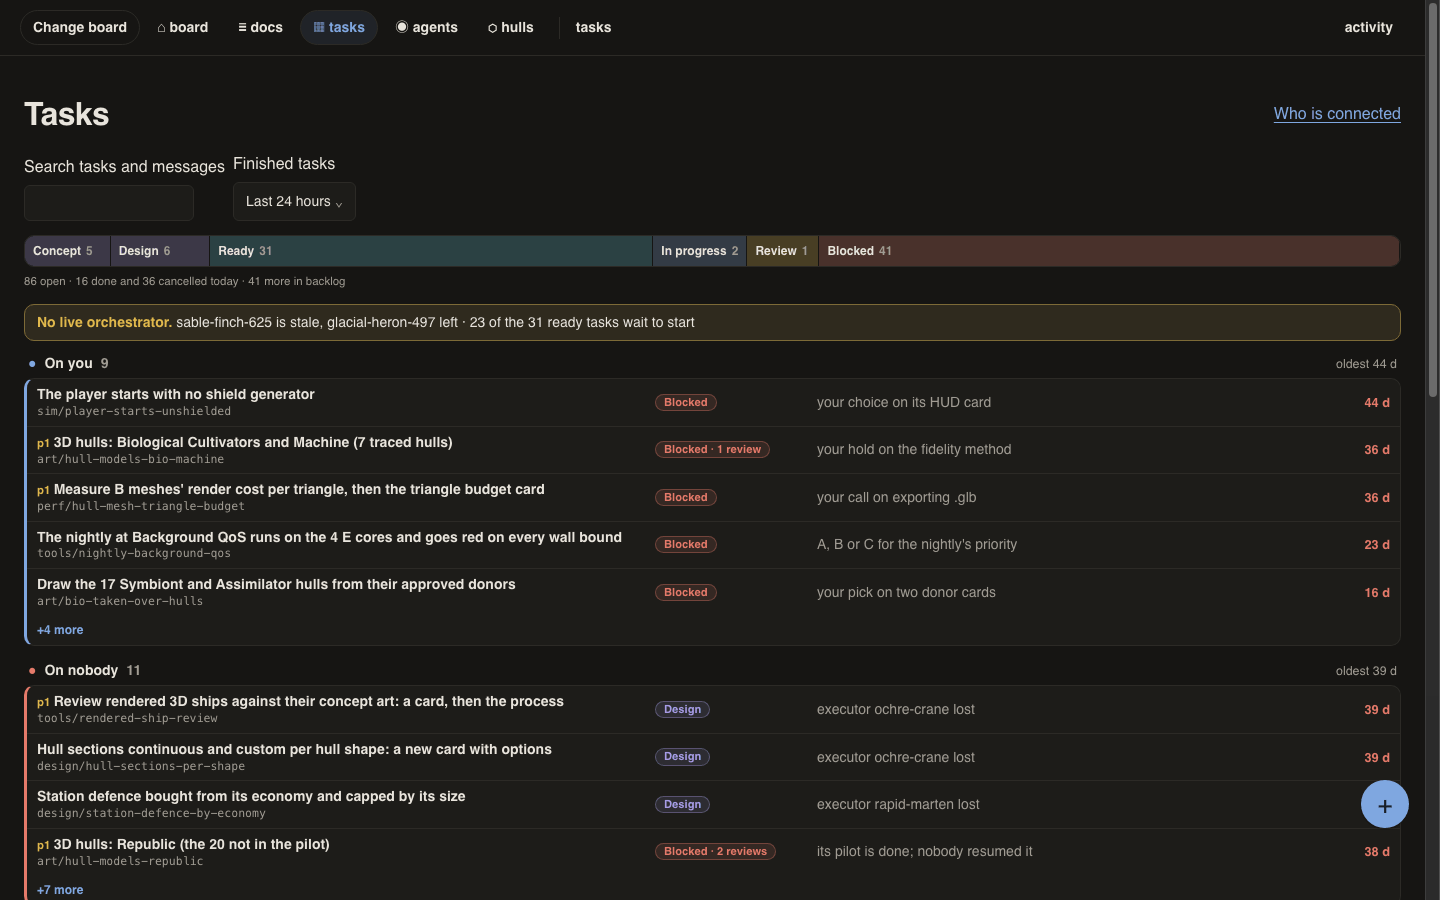
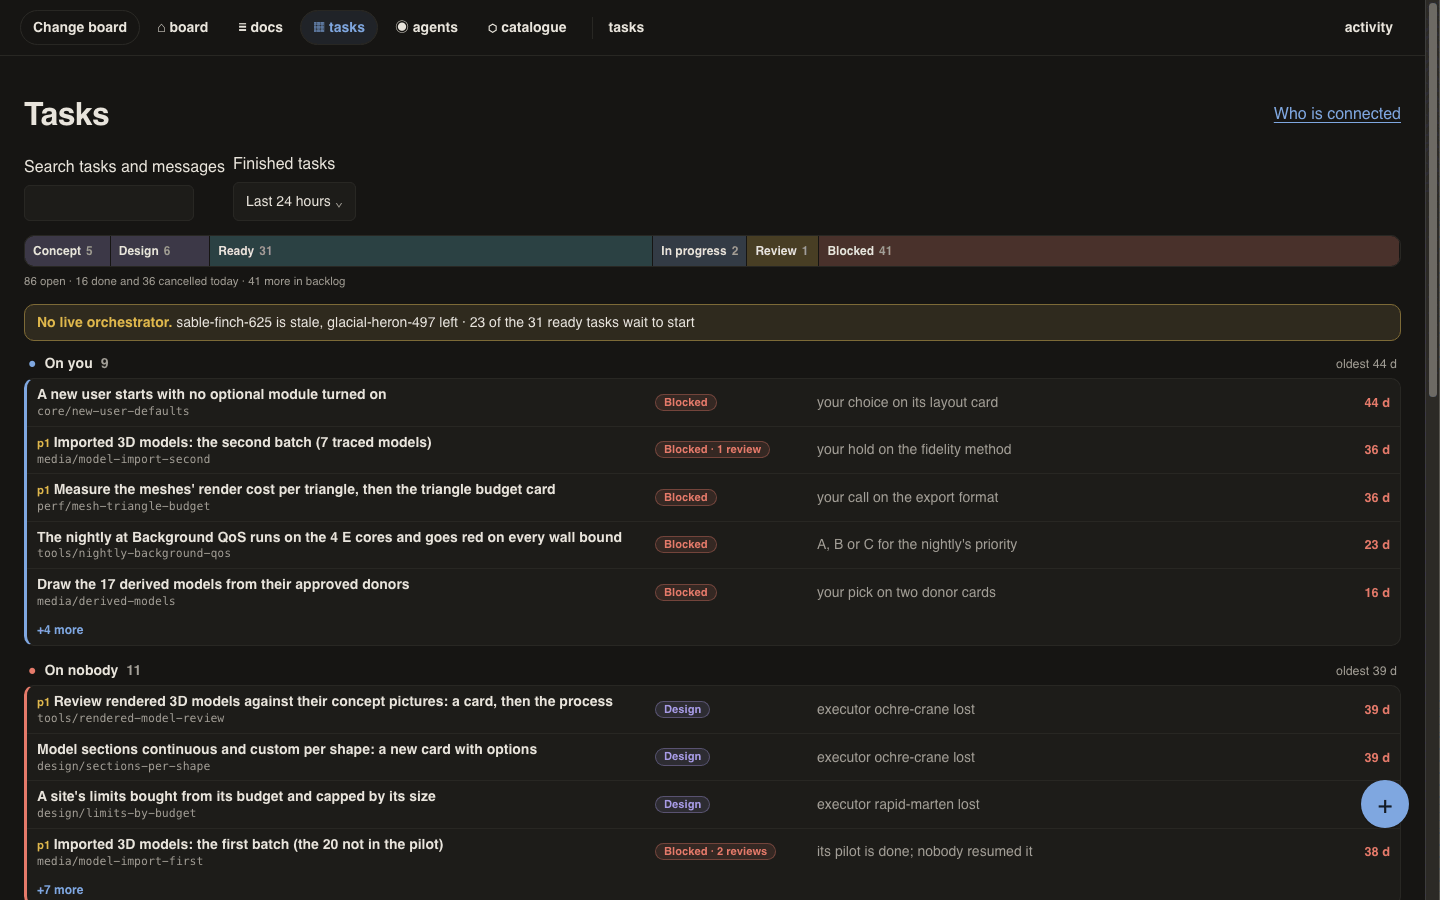
Show no consuming project's names in the board design pictures
The mock-ups' pictures are shot again from the reworded data, and in the three pictures of the live server the project's name, its own tab and the cards' titles are blurred, their layout kept.

diff --git a/docs/analysis/board-design.md b/docs/analysis/board-design.md
@@ -238,7 +238,10 @@ posts beside its move to blocked, shortened by hand to a few words (a block whos
 parked, stopped on purpose or waiting on a recurrence reads parked; one naming a session that is
 there reads on that session; unclaimed concept, design and ready work reads queued). The
 pictures are the `.html` pages here, shot with `symphony shot` at `--phone` and at 1440 wide, and
-reduced to 256 colours; "Projects today" is the shared server's own page at 19:09.
+reduced to 256 colours; they were shot again from the reworded data on 2026-11-12. "Projects
+today" is the shared server's own page at 19:09, and "Today" its board at 19:10; in those three
+pictures the consuming project's name, its own tab and the cards' titles are blurred, their layout
+as it was.
 
 ## Not in this design
 
